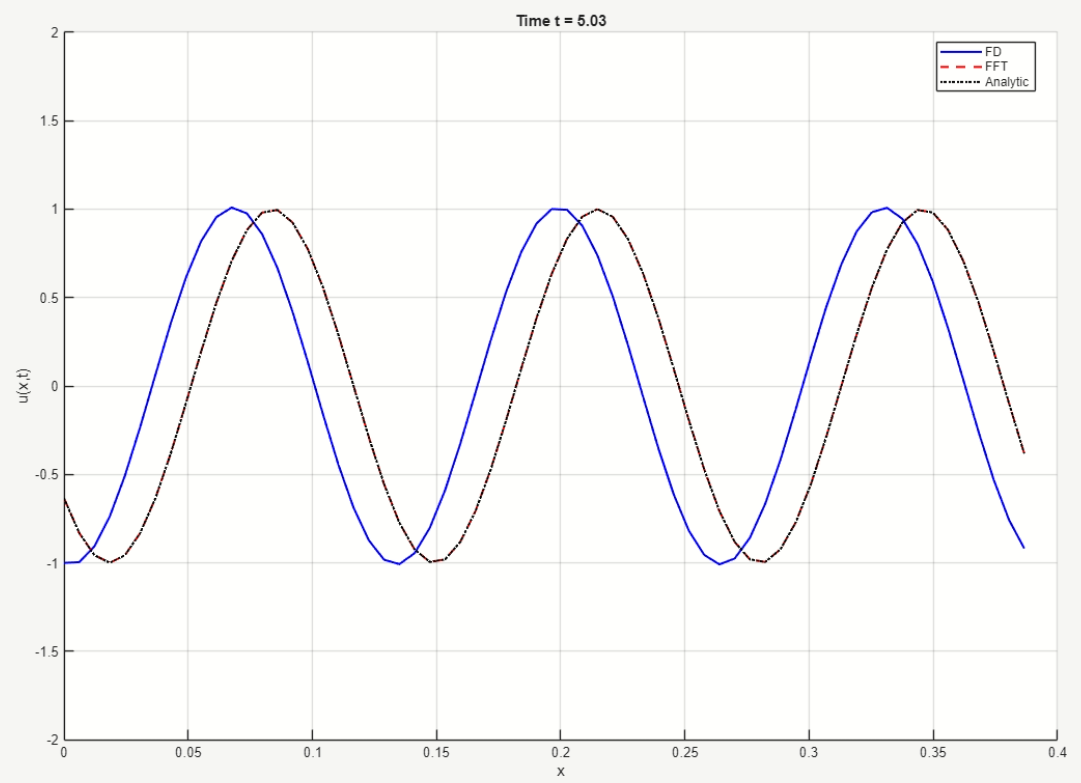
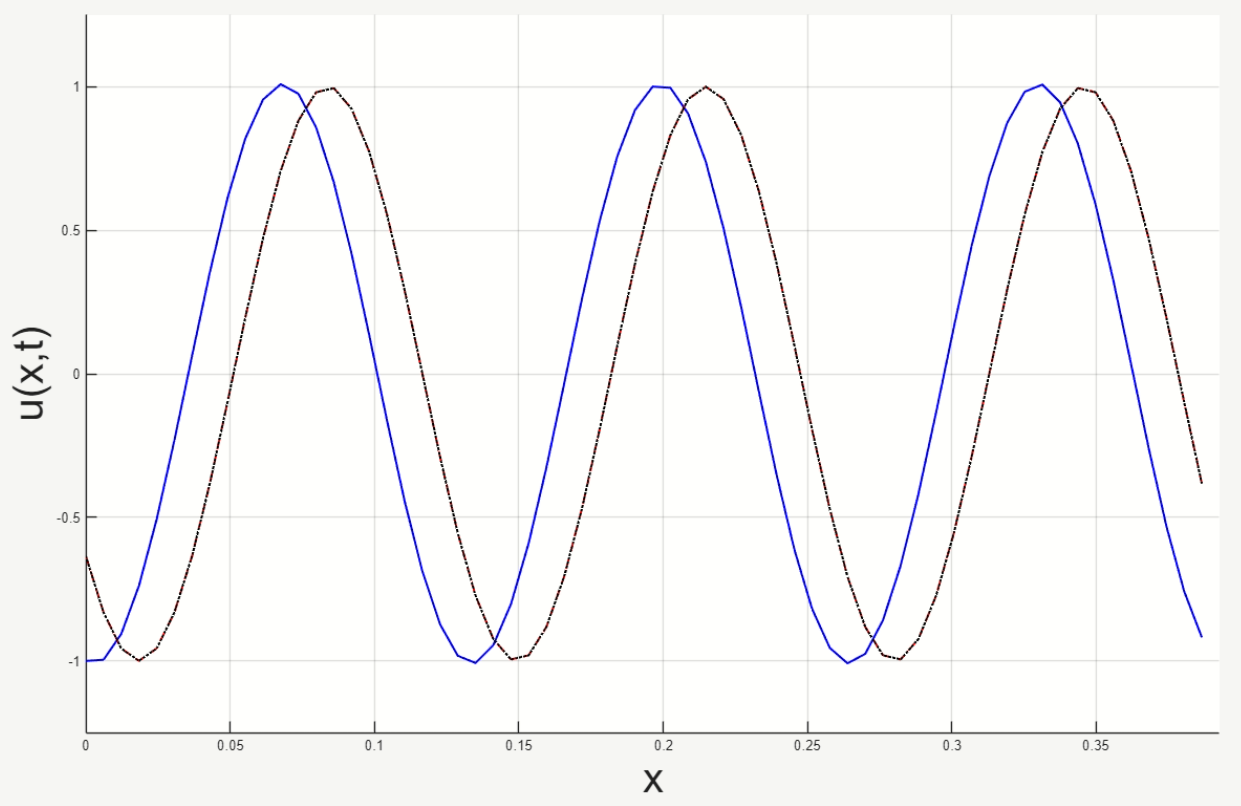
progress

diff --git a/main.tex b/main.tex
@@ -1254,16 +1254,17 @@ The focus of this chapter will be the time evolution of the wave equation. So, o
     \frac{\partial^2 \; u (x, t)}{\partial \; t^2 } = c^2 \; \frac{\partial^2 \; u (x, t)}{\partial \; x^2} \, .
 \end{equation}
 
-We will use finite differences (FD) and the fast Fourier transform (FFT) for the discretization of the second derivative present in the equation \ref{eq_wave} and then compare the two methods.
+We will use finite differences (FD) and the fast Fourier transform (FFT) for the discretization of the second derivative present in the equation \ref{eq_wave} and then compare the two methods. We will look at two different cases of boundary conditions: periodic boundary conditions and dirichlet boundary conditions.
 
-\section{One wave}
+\section{Periodic boundary conditions}
+
+\subsection{One wave}
 \noindent
-First, we will test how one wave in this specific form behaves
+First, we will test how one wave in this form
 \begin{equation}
-    u(x,t) = \sin{(k x - \omega t)} \, .
+    u(x,t) = \sin{(k x - \omega t)} \, 
 \end{equation}
-The figures of time evolution can be seen in \ref{fig_one_wave}. These numerical experiments clearly show that at higher wave numbers $k$, the FD is systematically slower than the FFT. And that there is no visible difference between the analytic solution and the FFT one.
-
+behaves. The figures of time evolution can be seen in \ref{fig_one_wave}. These numerical experiments clearly show that the FD is systematically slower than the FFT. And there is no visible difference between the analytic solution and the FFT solution.
 
 \begin{figure}[H]
 \centering
@@ -1272,7 +1273,7 @@ The figures of time evolution can be seen in \ref{fig_one_wave}. These numerical
 \begin{minipage}[H]{0.62\textwidth}
     \centering
     \includegraphics[width=\textwidth]{pic_2.png}
-    \subcaption{\footnotesize{t = 0 s}}
+    \subcaption{\footnotesize{$t \approx 0$ s}}
     \label{}
 \end{minipage}
 \vspace{8pt}
@@ -1281,7 +1282,7 @@ The figures of time evolution can be seen in \ref{fig_one_wave}. These numerical
 \begin{minipage}[H]{0.62\textwidth}
     \centering
     \includegraphics[width=\textwidth]{pic_3.png}
-    \subcaption{\footnotesize{t = 5 s}}
+    \subcaption{\footnotesize{$t \approx 5$ s}}
     \label{}
 \end{minipage}
 \vspace{8pt}
@@ -1290,18 +1291,19 @@ The figures of time evolution can be seen in \ref{fig_one_wave}. These numerical
 \begin{minipage}[H]{0.62\textwidth}
     \centering
     \includegraphics[width=\textwidth]{pic_4.png}
-    \subcaption{\footnotesize{t = 10 s}}
+    \subcaption{\footnotesize{$t \approx 10$ s}}
     \label{}
 \end{minipage}
-\caption{Comparison of wave propagation using FD, FFT and analytic solution.}
+\caption{Comparison of wave propagation using FD, FFT and analytic solution. Blue represents FD approximation, red represents FFT and black is exact solution.}
 \label{fig_one_wave}
 \end{figure}
 
+In our experiments, we saw that for higher wave numbers $k$, the effect was greater. We will shed some light on this phenomenon below.
 
 
-\subsection{Dispersion relation}
+\subsubsection{Dispersion relation}
 \noindent
-Lets look in more detail at why that could be happening. On a uniform grid, we have $x_j = j \; \Delta x$, $t_n = n \; \Delta t$ so that means we can approximate
+So, lets now look in more detail at why for higher wave numbers $k$ the slowing effect is greater for FD approximation. On a uniform grid, we have $x_j = j \; \Delta x$, $t_n = n \; \Delta t$ so that means we can approximate
 \begin{equation}
     \left. \frac{\partial^2 u}{\partial t^2} \right|_{j,n} \approx \frac{u_{j}^{n+1} - 2 \; u_j^n + u_j^{n-1}}{(\Delta t)^2} \, ,
 \end{equation}
@@ -1351,7 +1353,7 @@ $r>0, \omega >0$
 \begin{equation}
     \omega_{num}(k) \leq c |k| = \omega_{exact}(k)
 \end{equation}
-The equation holds only for $k \rightarrow 0$. Thus, numerical waves propagate slower. The graphical form of this result can be seen in the figure \ref{fig_dispersion}.
+The equation holds only for $k \rightarrow 0$. Thus, waves approximated by FD propagate slower. The graphical form of this result can be seen in the figure \ref{fig_dispersion}.
 
 \begin{figure}[H]
     \centering
@@ -1362,7 +1364,7 @@ The equation holds only for $k \rightarrow 0$. Thus, numerical waves propagate s
 
 
 
-\section{Two waves - same direction}
+\subsection{Two waves - same direction}
 \noindent
 Next, we will test how two waves that propagate in the same direction behave
 \begin{equation}
@@ -1376,7 +1378,7 @@ Next, we will test how two waves that propagate in the same direction behave
 \begin{minipage}[H]{0.95\textwidth}
     \centering
     \includegraphics[width=\textwidth]{pic_14.png}
-    \subcaption{\footnotesize{t = 0 s}}
+    \subcaption{\footnotesize{$t \approx 0$ s}}
     \label{}
 \end{minipage}
 \vspace{8pt}
@@ -1385,7 +1387,7 @@ Next, we will test how two waves that propagate in the same direction behave
 \begin{minipage}[H]{0.95\textwidth}
     \centering
     \includegraphics[width=\textwidth]{pic_15.png}
-    \subcaption{\footnotesize{t = 25 s}}
+    \subcaption{\footnotesize{$t \approx 25$ s}}
     \label{}
 \end{minipage}
 \vspace{8pt}
@@ -1394,7 +1396,7 @@ Next, we will test how two waves that propagate in the same direction behave
 \begin{minipage}[H]{0.95\textwidth}
     \centering
     \includegraphics[width=\textwidth]{pic_16.png}
-    \subcaption{\footnotesize{t = 50 s}}
+    \subcaption{\footnotesize{$t \approx 50$ s}}
     \label{}
 \end{minipage}
 \caption{Comparison of wave propagation using FD, FFT and analytic solution.}
@@ -1403,7 +1405,7 @@ Next, we will test how two waves that propagate in the same direction behave
 
 
 
-\section{Two waves - opposite direction}
+\subsection{Two waves - opposite direction}
 \noindent
 And lastly, we will test how two waves that propagate in the opposite direction behave
 \begin{equation}
@@ -1442,12 +1444,27 @@ And lastly, we will test how two waves that propagate in the opposite direction 
 \label{}
 \end{figure}
 
+\section{Dirichlet boundary conditions}
+
+\subsection{One wave}
+
+\subsection{Two waves - same direction}
+
+\subsection{Two waves - opposite direction}
 
 
 \chapter{Wave propagation in metamaterials}
 \noindent
 
-\section{Standard equations}
+
+\begin{figure}[H]
+    \centering
+    \includegraphics[width=1\linewidth]{pic_1.png}
+    \caption{Figure of one dimensional infinite lattice metamaterial.}
+    \label{}
+\end{figure}
+
+\subsection*{Standard equations}
 A basic description based on classical newton motion equations is in \ref{eq1}
 
 
@@ -1462,16 +1479,7 @@ A basic description based on classical newton motion equations is in \ref{eq1}
 
 
 
-\begin{figure}[H]
-    \centering
-    \includegraphics[width=1\linewidth]{pic_1.png}
-    \caption{}
-    \label{}
-\end{figure}
-
-
-
-\section{Rate-type equations}
+\subsection*{Rate-type equations}
 \noindent
 Let's now show how can we derive rate-type equations from classical newtonian description in \ref{eq1}. We will follow the derivation described in \cite{cit1}.
 
@@ -1493,8 +1501,9 @@ So the
 \end{equation}
 
 
+\section{Periodic boundary conditions}
 
-
+\section{Dirichlet boundary conditions}
 
 
 
